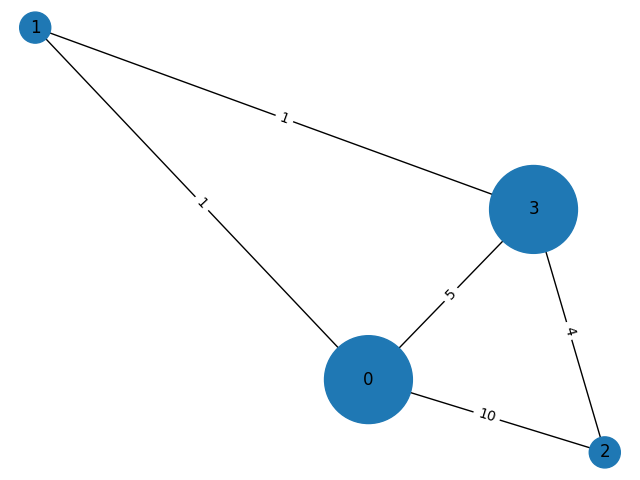
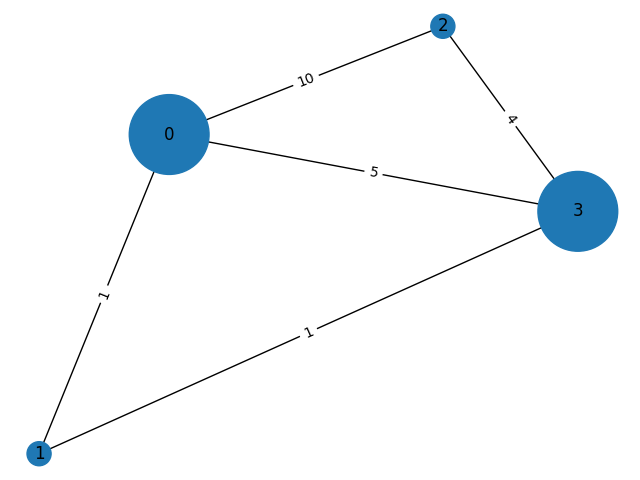
fixes

diff --git a/GUI/Visualisation.py b/GUI/Visualisation.py
@@ -26,7 +26,7 @@ class Ui_Form(object):
         self.GraphView = QtWidgets.QWidget(Form)
         self.GraphView.setMinimumSize(QtCore.QSize(400, 300))
         self.GraphView.setObjectName("GraphView")
-        self.horizontalLayout_4 = QtWidgets.QHBoxLayout(self.GraphView)
+        self.horizontalLayout_4 = QtWidgets.QVBoxLayout(self.GraphView)
         self.horizontalLayout_4.setObjectName("horizontalLayout_4")
         self.ImageLabel = QtWidgets.QLabel()
         self.horizontalLayout_4.addWidget(self.ImageLabel)
@@ -95,31 +95,31 @@ class Ui_Form(object):
         a = []
         if option == 0:
             a = DegreeCenterality(self.adj_list, self.vertices_num)
-            ma = max(a.values())
-            mi = min(a.values())
+            ma = max(map(float, a.values()))
+            mi = min(map(float, a.values()))
             if(ma == mi):
                 ma = mi + 1
             i = 0
             for e in a.values():
-                b[i] = (500 + (((e-mi)/(ma-mi))*3500))
+                b[i] = (300 + (((e-mi)/(ma-mi))*3000))
                 i += 1
         elif option == 1:
             a = nx.closeness_centrality(G)
-            ma = max(a.values())
-            mi = min(a.values())
+            ma = max(map(float, a.values()))
+            mi = min(map(float, a.values()))
             if(ma == mi):
                 ma = mi + 1
             i = 0
             for e in a.values():
-                b[i] = (500 + (((e-mi)/(ma-mi))*3500))
+                b[i] = (300 + (((e-mi)/(ma-mi))*3000))
                 i += 1
         else:
             a = BetweenessCentrality(self.adj_list, self.vertices_num)
-            ma = float(max(a))
-            mi = float(min(a))
+            ma = float(max(map(float, a)))
+            mi = float(min(map(float, a)))
             i = 0
             for e in a:
-                b[i] = (500 + (((float(e)-mi)/(ma-mi))*3000))
+                b[i] = (300 + (((float(e)-mi)/(ma-mi))*3000))
                 i += 1
         labels = nx.get_edge_attributes(G, 'weight')
         pos = nx.spring_layout(G)
@@ -129,9 +129,10 @@ class Ui_Form(object):
         plt.savefig("Graph.png")
         plt.close()
 
-        pixmap = QtGui.QPixmap("Graph.png")
-        self.ImageLabel.setPixmap(pixmap)
-        self.GraphView.setMinimumSize(pixmap.width()+20, pixmap.height()+20)
+        self.pixmap = QtGui.QPixmap("Graph.png")
+        self.ImageLabel.setPixmap(self.pixmap)
+        self.GraphView.setMinimumSize(
+            self.pixmap.width()+20, self.pixmap.height()+20)
 
     def retranslateUi(self, Form):
         _translate = QtCore.QCoreApplication.translate
